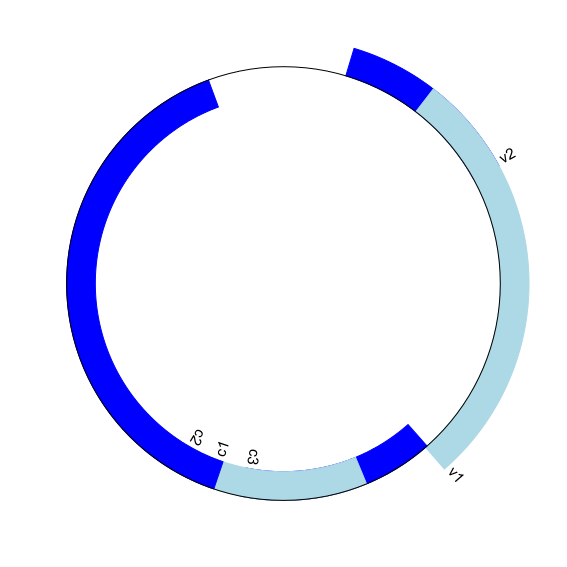
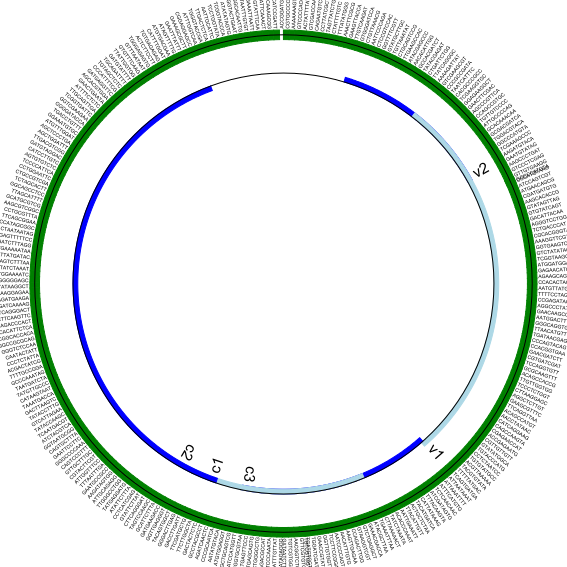
Update

Changed region(s): [[0.0, 0.0, 1.0, 1.0]]

diff --git a/challenge.py b/challenge.py
@@ -13,7 +13,8 @@ def getFile():
     gd_diagram = GenomeDiagram.Diagram(record.id)
     gd_track_for_features = gd_diagram.new_track(1, name="Annotated Features")
     gd_feature_set = gd_track_for_features.new_set()
-    
+    gd_track_for_content = gd_diagram.new_track(4, name= "Annotated Content")
+    gd_content_set = gd_track_for_content.new_set()
 
     #adding the features to the gd_diagram
     for feature in record.features:
@@ -42,15 +43,15 @@ def getFile():
             index = record.seq.find(x, start=index)
             if index == -1:
                 break
-        feature = SeqFeature(FeatureLocation(index, index + len(x)))
-        gd_feature_set.add_feature(
-            feature,
-            color=colors.green,
-            name = x,
-            label=True,
-            label_size=10,
-        )
-        index += len(x)
+            feature = SeqFeature(FeatureLocation(index, index + len(x)))
+            gd_content_set.add_feature(
+                feature,
+                color=colors.green,
+                name = x,
+                label=True,
+                label_size=5,
+            )
+            index += len(x)
         
 
     #making the circular diagram
@@ -60,7 +61,7 @@ def getFile():
         pagesize=(20 * cm, 20 * cm),
         start=10,
         end = len(record),
-        circle_core=.7
+        circle_core=.8
     )
 
     #writing the diagram to all formats asked by the client
